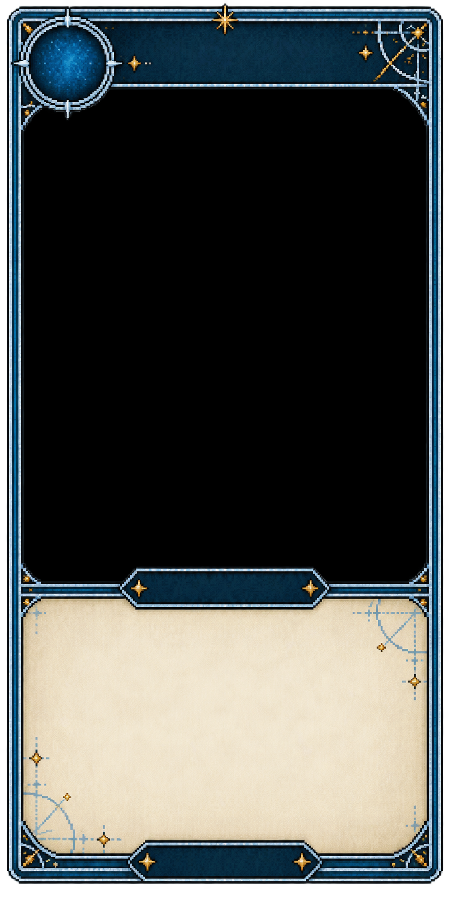
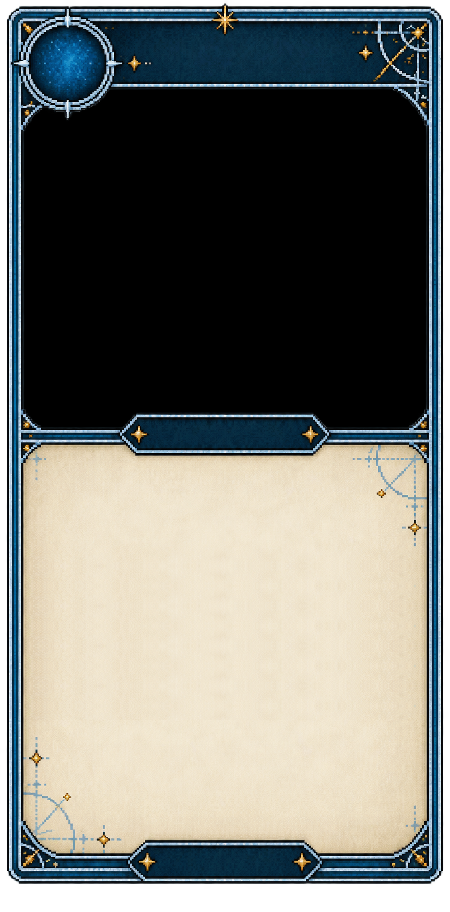
resize the card frames to fit the artwork properly (minimise the black background)

Changed region(s): [[0.0311, 0.4298, 0.9644, 0.7675]]

diff --git a/source/core/src/test/com/csse3200/game/components/cards/CommonCardWidgetTest.java b/source/core/src/test/com/csse3200/game/components/cards/CommonCardWidgetTest.java
@@ -230,7 +230,7 @@ class CommonCardWidgetTest {
       Label typeLabel = findLabel(widget, "Attack");
       assertCenteredSlot(cost, 34.5f, 423.5f);
       assertCenteredSlot(name, 131.5f, 428f);
-      assertCenteredSlot(typeLabel, 112.5f, 158.5f);
+      assertCenteredSlot(typeLabel, 112.5f, 235.5f);
       assertCenteredSlot(targetLabel, 112.5f, 23f);
       assertTrue(cost.getX() + cost.getWidth() <= name.getX());
       assertNull(findLabel(widget, "Attack  |  Common"));
@@ -359,6 +359,36 @@ class CommonCardWidgetTest {
         widget.draw(batch, 1f);
         assertTrue(drawn.contains(frameTexture), config.id);
         assertTrue(drawn.indexOf(artTexture) > drawn.indexOf(frameTexture), config.id);
+      }
+    }
+  }
+
+  @Test
+  void landscapeArtworkFillsWindowWithoutLargeLetterboxingAtEveryConsumerSize() {
+    for (CardConfig config : configs) {
+      CardFrameLayout layout = assets.frameLayoutFor(config.rarity);
+      assertEquals(new CardFrameLayout.Bounds(16f, 251f, 193f, 145f), layout.artwork());
+      assertEquals(193f / 145f, 4f / 3f, 0.003f);
+      assertTrue(layout.description().height() >= 182f);
+      Texture texture = resources.getAsset(config.texturePath, Texture.class);
+      assertEquals(1024, texture.getWidth(), config.id);
+      assertEquals(768, texture.getHeight(), config.id);
+      ResolvedCard card = resolver.resolveBasePreview(config, "landscape-" + config.id);
+      CardWidget widget = new CardWidget(card, assets);
+      for (float[] size : new float[][] {{225f, 456f}, {90f, 130f}, {150f, 214f}}) {
+        widget.setSize(size[0], size[1]);
+        widget.validate();
+        Group face = (Group) widget.getChildren().first();
+        Image artwork = face.findActor("card-artwork");
+        artwork.validate();
+        Label type = face.findActor("card-type");
+        Label description = findLabel(widget, card.description());
+        // Rounded source pixels differ from exact 4:3 by less than one logical pixel.
+        assertTrue(artwork.getHeight() - artwork.getImageHeight() < 1f, config.id);
+        assertTrue(artwork.getWidth() - artwork.getImageWidth() < 1f, config.id);
+        assertEquals(4f / 3f, artwork.getImageWidth() / artwork.getImageHeight(), 0.0001f);
+        assertTrue(artwork.getY() >= type.getY() + type.getHeight(), config.id);
+        assertTrue(type.getY() >= description.getY() + description.getHeight(), config.id);
       }
     }
   }

diff --git a/source/core/src/main/com/csse3200/game/components/cards/CardFrameLayout.java b/source/core/src/main/com/csse3200/game/components/cards/CardFrameLayout.java
@@ -27,13 +27,14 @@ record CardFrameLayout(
       new CardFrameLayout(
           CardWidgetAssets.COMMON_FRAME_TEXTURE,
           // The PNG's window is opaque black. Keep overlaid art inside its clear rectangular
-          // interior, away from the cost orb, rounded corners and target ribbon.
-          new Bounds(16f, 174f, 193f, 222f),
+          // interior. Match the landscape artwork (approximately 4:3) and reserve the freed
+          // vertical space for rules, rather than letterboxing art in a portrait opening.
+          new Bounds(16f, 251f, 193f, 145f),
           new Bounds(13f, 402f, 43f, 43f),
           new Bounds(60f, 414f, 143f, 28f),
-          new Bounds(23f, 36f, 179f, 111f),
+          new Bounds(23f, 36f, 179f, 188f),
           // Type belongs on the ribbon between the art and rules; target on the bottom plate.
-          new Bounds(75f, 150f, 75f, 17f),
+          new Bounds(75f, 227f, 75f, 17f),
           new Bounds(80f, 15f, 65f, 16f),
           new Bounds(203f, 420f, 10f, 14f),
           0.90f,
@@ -46,8 +47,8 @@ record CardFrameLayout(
   static final CardFrameLayout UNCOMMON =
       standardFrame(
           CardWidgetAssets.UNCOMMON_FRAME_TEXTURE,
-          new Bounds(23f, 39f, 179f, 105f),
-          new Bounds(75f, 153.5f, 75f, 17f),
+          new Bounds(23f, 39f, 179f, 182f),
+          new Bounds(75f, 230.5f, 75f, 17f),
           new Bounds(80f, 17f, 65f, 16f));
 
   static final CardFrameLayout RARE =
